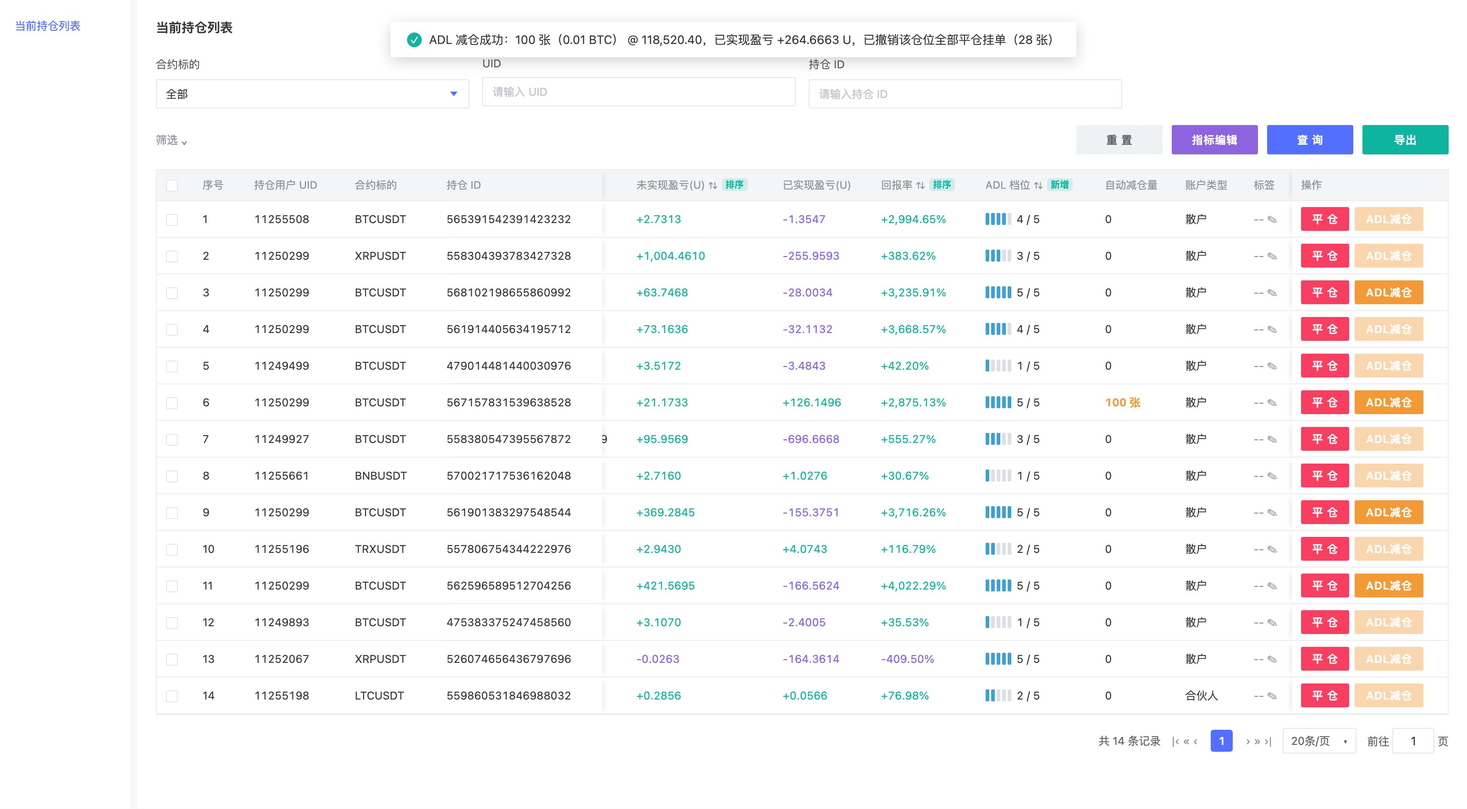
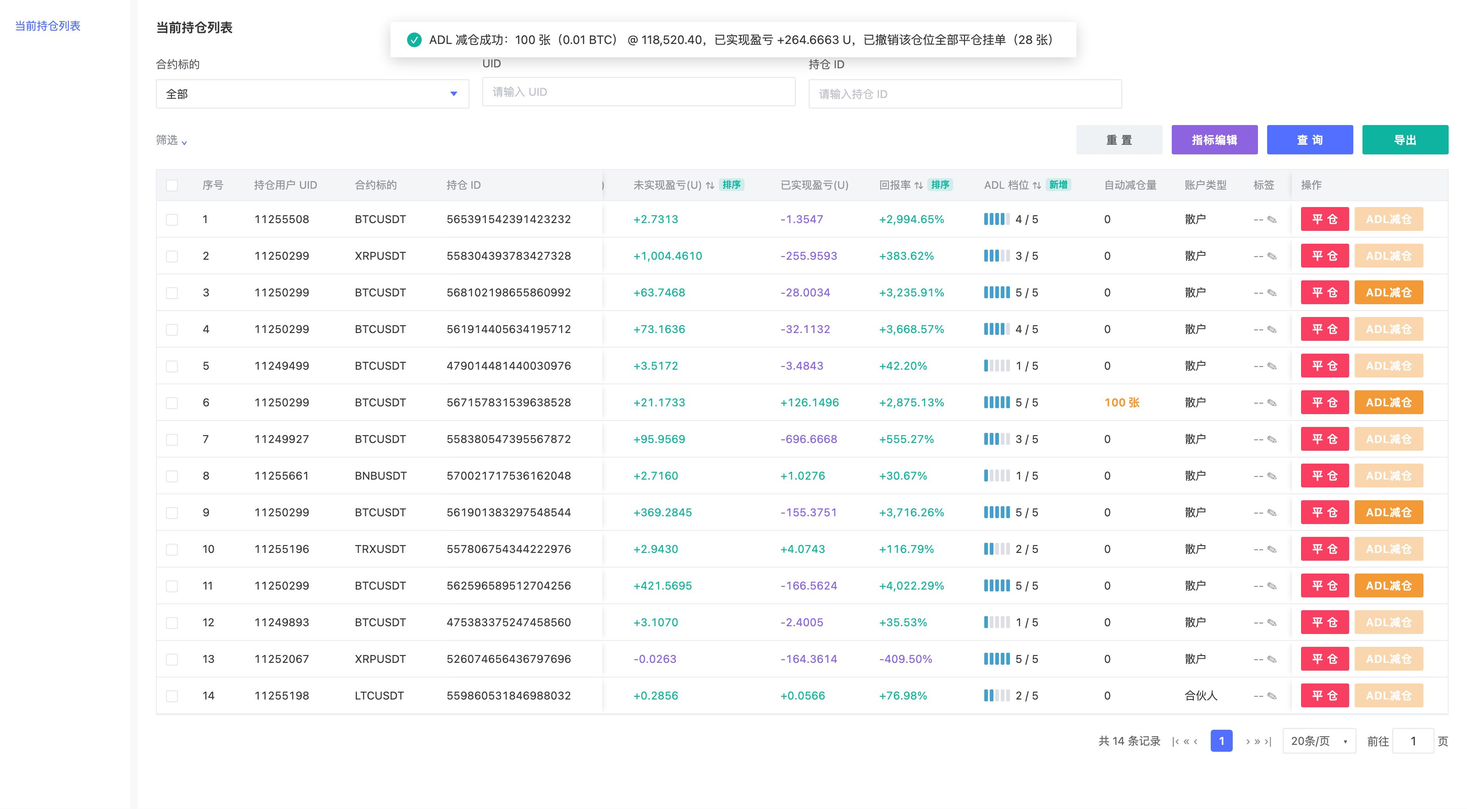
change: 原型数值改按《账户字段公式》计算(仓位价值/保证金/收益率/强平价/破产价/逐仓保证金转出/保证金率);PRD V2.4 新增计算口径章节

diff --git a/中台ADL减仓_PRD_V1.0.html b/中台ADL减仓_PRD_V1.0.html
@@ -74,7 +74,7 @@
 
 <div class="cover">
   <h1>中台 ADL 减仓 PRD</h1>
-  <div class="ver">版本 V2.3 · 2026-10-12 · 修订人 Rhys</div>
+  <div class="ver">版本 V2.4 · 2026-10-13 · 修订人 Rhys</div>
   <div class="sub">需求类型：0→1 · 规模 L ｜ 配套原型：<a href="https://forclaudecode.vercel.app/1009-中台ADL减仓.html">1009-中台ADL减仓.html</a> ｜ 规则来源：规则台账_ADL减仓 v1.0（R01–R19）</div>
 </div>
 
@@ -187,14 +187,35 @@ stateDiagram-v2
   <tr><td>平台账户</td><td>承接 ADL 所产生盈亏的平台自有账户。</td></tr>
 </table>
 
-<h3>2.4 重要信息 Checklist</h3>
+<h3>2.4 计算口径（沿用《账户字段公式》）</h3>
+<p>本需求不新增计算口径，全部沿用现有《账户字段公式》，ADL 视同一次按标记价格成交、免手续费的平仓。</p>
+<table>
+  <tr><th>字段</th><th>公式</th><th>使用位置</th></tr>
+  <tr><td>单个仓位未实现盈亏</td><td>仓位方向 ×（标记价格 − 开仓均价）× 面值 × 张数（多 +1 / 空 −1）</td><td>列表、弹窗、用户端持仓</td></tr>
+  <tr><td>平仓盈亏（本次减仓预估盈亏）</td><td>仓位方向 ×（平仓均价 − 开仓均价）× 面值 × |张数|；ADL 平仓均价 = 执行时标记价格；手续费 0</td><td>弹窗「本次减仓预估盈亏」、历史委托 / 成交</td></tr>
+  <tr><td>已实现盈亏</td><td>成交差价 × 数量 − 手续费 + 资金费用（有正负号）</td><td>列表、弹窗「减仓后预估总已实现盈亏」= 当前已实现盈亏 + 本次减仓预估盈亏</td></tr>
+  <tr><td>仓位价值</td><td>开仓价值 = 面值 × 张数 × 开仓均价（中台列表「仓位价值」）；当前仓位价值 = 面值 × 张数 × 标记价格（弹窗「仓位价值」「剩余持仓价值」）</td><td>列表、弹窗</td></tr>
+  <tr><td>仓位本金 / 仓位保证金</td><td>全仓 = 张数 × 面值 × 开仓均价 / 杠杆；逐仓 = 逐仓保证金（逐仓余额）</td><td>列表「仓位保证金」、收益率分母</td></tr>
+  <tr><td>收益率</td><td>持仓收益率 = 未实现盈亏 / 仓位本金；平仓收益率（历史页）= 仓位已实现盈亏 / 仓位本金</td><td>列表「回报率」、用户端持仓、历史仓位</td></tr>
+  <tr><td>减仓时逐仓保证金转出</td><td>转出 = min（A，B，减仓前仓位保证金）<br>A = max【仓位保证金 × 减仓仓位价值 / 减仓前仓位价值 + 方向 × 减仓张数 × 面值 ×（平仓均价 − 开仓均价），0】<br>B = max【减仓前仓位保证金 + 方向 × 剩余张数 × 面值 ×（标记价格 − 开仓均价）− 剩余张数 × 面值 × 标记价格 / 杠杆，0】</td><td>逐仓 ADL 执行后的保证金与资金去向</td></tr>
+  <tr><td>预估强平价</td><td>逐仓 =【逐仓余额 /（面值 × |张数|）− 方向 × 持仓均价】/（维持保证金率 + 爆仓手续费率 − 方向）<br>全仓（多仓位）=【（钱包余额 − Σ逐仓余额 + 其他仓位未实现盈亏）/（面值 × |张数|）− 方向 × 持仓均价】/（维持保证金率 + 爆仓手续费率 − 方向）<br>破产价格：同上，维持保证金率取 0；价格不存在时显示「--」</td><td>列表「强平价格」「破产价格」、用户端持仓</td></tr>
+  <tr><td>保证金率（逐仓）</td><td>（逐仓余额 + 未实现盈亏）/（面值 × |张数| × 标记价格 ×（维持保证金率 + 爆仓手续费率））</td><td>用户端持仓</td></tr>
+</table>
+<p><strong>由公式得出的两条结论</strong>：</p>
+<ul>
+  <li><strong>全仓</strong>：ADL 后钱包余额增加本次已实现盈亏，被减仓位的未实现盈亏同额减少，二者抵消，<strong>同账户其他仓位的预估强平价不变</strong>；被减仓位因张数减少，强平价远离标记价格。</li>
+  <li><strong>逐仓</strong>：按「减仓时逐仓保证金」规则转出，B 项会把浮盈超出部分一并转出，使剩余仓位权益 = 剩余初始保证金。例：10x 逐仓 0.0108 BTC 被 ADL 0.01 BTC，逐仓保证金 89.11 → 2.34 U，预估强平价 74,678 → 80,039，收益率 71.79% → 202.83%。剩余仓位的强平价会<strong>靠近</strong>标记价格（与用户手动部分平仓的结果一致）。</li>
+</ul>
+<p>维持保证金率、爆仓手续费率取各合约现有配置（原型示例值：0.5% / 0.06%）。</p>
+
+<h3>2.5 重要信息 Checklist</h3>
 <table>
   <tr><th>#</th><th>规则</th><th>台账</th></tr>
   <tr><td>1</td><td>可减条件：ADL 指示灯亮满 5 格 <strong>且</strong> 未实现盈亏 &gt; 0，两个条件同时满足</td><td>R13</td></tr>
   <tr><td>2</td><td>成交价：执行时的实时标记价格（不是运营打开弹窗时的价格）</td><td>R04</td></tr>
   <tr><td>3</td><td>被减部分不产生对手仓位，系统直接结算平仓，盈亏由平台账户承接</td><td>R03</td></tr>
   <tr><td>4</td><td>被减仓用户不收手续费</td><td>R12</td></tr>
-  <tr><td>5</td><td>释放的保证金和已实现盈亏立即可用，回到交易账户</td><td>R16</td></tr>
+  <tr><td>5</td><td>已实现盈亏立即计入交易账户钱包余额；逐仓按「减仓时逐仓保证金」规则转出的保证金立即回到全仓可用</td><td>R16 / R22</td></tr>
   <tr><td>6</td><td>执行后撤销该仓位全部平仓类挂单</td><td>R14</td></tr>
   <tr><td>7</td><td>数量上限 = 执行时的持仓量；超出报错、不执行；同一仓位可多次减仓</td><td>R13 / R17</td></tr>
   <tr><td>8</td><td>数量支持张 / 币 / USDT 切换与小数；张、币的小数位数沿用各合约现有数量精度配置，USDT 按当前标记价折算为张数后执行</td><td>R07 / R18</td></tr>
@@ -204,7 +225,7 @@ stateDiagram-v2
   <tr><td>12</td><td>用户端 ADL 数量统一用币单位显示（如 0.01 BTC）</td><td>R19</td></tr>
 </table>
 
-<h3>2.5 上线节奏</h3>
+<h3>2.6 上线节奏</h3>
 <p>一期上线本文全部范围（中台 + App + Web 同步）。邮件通知（P05）视上线后客服咨询量再评估。</p>
 
 <!-- ============ 三 ============ -->
@@ -309,7 +330,7 @@ flowchart LR
 <p><strong>App · 合约页持仓区</strong>（ADL 前 → 部分 ADL 后 → 全部 ADL 后；虚线框为变化项，原型标注，非实际 UI）＋ <strong>App · 交易记录</strong>（部分 ADL 后：历史委托 / 历史仓位 / 交易历史 / 资金流水）</p><div class="phones"><figure class="fig"><img src="中台ADL减仓_PRD_assets/11_app_before.jpg" alt="图 7　ADL 前" loading="lazy"><figcaption>图 7　ADL 前</figcaption></figure><figure class="fig"><img src="中台ADL减仓_PRD_assets/12_app_partial.jpg" alt="图 8　部分 ADL 后" loading="lazy"><figcaption>图 8　部分 ADL 后</figcaption></figure><figure class="fig"><img src="中台ADL减仓_PRD_assets/13_app_full.jpg" alt="图 9　全部 ADL 后" loading="lazy"><figcaption>图 9　全部 ADL 后</figcaption></figure><figure class="fig"><img src="中台ADL减仓_PRD_assets/14_app_partial_hist.jpg" alt="图 10　交易记录 · 历史委托" loading="lazy"><figcaption>图 10　交易记录 · 历史委托</figcaption></figure><figure class="fig"><img src="中台ADL减仓_PRD_assets/15_app_partial_pos.jpg" alt="图 10-1　交易记录 · 历史仓位（「ADL」标签）" loading="lazy"><figcaption>图 10-1　交易记录 · 历史仓位（「ADL」标签）</figcaption></figure><figure class="fig"><img src="中台ADL减仓_PRD_assets/16_app_partial_fill.jpg" alt="图 10-2　交易记录 · 交易历史" loading="lazy"><figcaption>图 10-2　交易记录 · 交易历史</figcaption></figure><figure class="fig"><img src="中台ADL减仓_PRD_assets/17_app_flow.jpg" alt="图 10-3　交易记录 · 资金流水（不改动）" loading="lazy"><figcaption>图 10-3　交易记录 · 资金流水（不改动）</figcaption></figure></div><p><strong>Web · 合约页仓位区</strong>（页签：当前持仓 / 当前委托 / 历史仓位 / 历史委托〔限价&amp;市价 · 止盈止损 · 计划委托〕/ 资金流水 / 历史成交）</p><figure class="fig"><img src="中台ADL减仓_PRD_assets/07_web_before.jpg" alt="图 11　ADL 前 · 当前持仓（止盈 95,000）" loading="lazy"><figcaption>图 11　ADL 前 · 当前持仓（止盈 95,000）</figcaption></figure><figure class="fig"><img src="中台ADL减仓_PRD_assets/08_web_partial.jpg" alt="图 12　部分 ADL 后 · 当前持仓：数量变为 8 张，止盈被撤，无任何 ADL 标记" loading="lazy"><figcaption>图 12　部分 ADL 后 · 当前持仓：数量变为 8 张，止盈被撤，无任何 ADL 标记</figcaption></figure><figure class="fig"><img src="中台ADL减仓_PRD_assets/18_web_partial_phist.jpg" alt="图 13　部分 ADL 后 · 历史仓位：「ADL」标签，平仓时间为 ADL 执行时间" loading="lazy"><figcaption>图 13　部分 ADL 后 · 历史仓位：「ADL」标签，平仓时间为 ADL 执行时间</figcaption></figure><figure class="fig"><img src="中台ADL减仓_PRD_assets/09_web_partial_hist.jpg" alt="图 14　部分 ADL 后 · 历史委托 · 限价&市价：订单类型「ADL」" loading="lazy"><figcaption>图 14　部分 ADL 后 · 历史委托 · 限价&市价：订单类型「ADL」</figcaption></figure><figure class="fig"><img src="中台ADL减仓_PRD_assets/19_web_partial_tpsl.jpg" alt="图 15　部分 ADL 后 · 历史委托 · 止盈止损：订单状态「因 ADL 撤销」" loading="lazy"><figcaption>图 15　部分 ADL 后 · 历史委托 · 止盈止损：订单状态「因 ADL 撤销」</figcaption></figure><figure class="fig"><img src="中台ADL减仓_PRD_assets/20_web_partial_fill.jpg" alt="图 16　部分 ADL 后 · 历史成交：「ADL」标签，手续费 0" loading="lazy"><figcaption>图 16　部分 ADL 后 · 历史成交：「ADL」标签，手续费 0</figcaption></figure><figure class="fig"><img src="中台ADL减仓_PRD_assets/10_web_full_phist.jpg" alt="图 17　全部 ADL 后 · 历史仓位：「ADL」标签，已平仓量 = 持仓数量" loading="lazy"><figcaption>图 17　全部 ADL 后 · 历史仓位：「ADL」标签，已平仓量 = 持仓数量</figcaption></figure><p>App 与 Web 规则一致，页面名称不同：App「交易记录」页的页签为 历史委托 / 历史仓位 / 资金流水 / 交易历史，Web 为 历史仓位 / 历史委托（限价&amp;市价 · 止盈止损 · 计划委托）/ 资金流水 / 历史成交。以下以一笔 0.0108 BTC 的多仓被减 0.01 BTC 为例。ADL 记录中的数量统一用币单位（R19）；同页其他记录保持各端现有单位（App 现有为 USDT）。</p>
 <table>
   <tr><th>位置</th><th>部分 ADL 后</th><th>全部 ADL 后</th></tr>
-  <tr><td>当前持仓</td><td>仓位仍在，数量变为 0.0008 BTC。未实现盈亏、保证金按剩余部分显示；开仓均价、收益率不变。<strong>不加任何 ADL 标记</strong>。指示灯按现有逻辑重新计算。</td><td>仓位消失；无其他仓位时显示「暂无持仓」。</td></tr>
+  <tr><td>当前持仓</td><td>仓位仍在，数量变为 0.0008 BTC。开仓均价不变；未实现盈亏按剩余张数计算；逐仓保证金按转出规则变为 2.34 U，收益率、预估强平价、保证金率随之重算（见 2.4）。<strong>不加任何 ADL 标记</strong>。指示灯按现有逻辑重新计算。</td><td>仓位消失；无其他仓位时显示「暂无持仓」。</td></tr>
   <tr><td>当前委托</td><td>该仓位的平仓类挂单全部消失，委托数相应减少。</td><td>同左。</td></tr>
   <tr><td>历史委托</td><td colspan="2"><strong>App</strong>：新增一张卡片，标题 BTC_USDT，状态「已成交」；标签「卖出（平多）/ 买入（平空）· 逐仓 / 全仓 · 杠杆 · ADL」；「已成交/总数量(BTC)」如 0.01/0.01，进度条满；委托价格「--」；委托时间为执行时间。被撤的平仓挂单状态显示「已撤销 · 因 ADL」。<br><strong>Web</strong>：「限价&amp;市价」子页签新增一行：合约名称「BTC 平多 / 平空」，订单类型「ADL」标签，成交数量/委托数量如「0.01 BTC(100%) / 0.01 BTC」，成交均价为执行时标记价格，触发条件、委托价格「--」，平仓盈亏为本次已实现盈亏，手续费 0，订单状态「全部成交」。被撤的止盈止损单在「止盈止损」子页签中，订单状态显示「因 ADL 撤销」（与现有「用户撤销」并列）。「计划委托」不改动。</td></tr>
   <tr><td>交易历史（App）/ 历史成交（Web）</td><td colspan="2"><strong>App</strong>：卡片标题 BTCUSDT 旁加「ADL」标签；交易品种、成交数量（如 0.01 BTC）、手续费 0、成交价格（执行时标记价格）、时间、成交ID。<br><strong>Web</strong>：交易品种 BTCUSDT 旁加「ADL」标签；成交价格为执行时标记价格；成交数量如 0.01 BTC；手续费 0；时间、成交 ID。</td></tr>
@@ -340,8 +361,8 @@ flowchart LR
   <tr><td>16</td><td>同一仓位多次 ADL</td><td>允许；每次生成独立的委托和成交记录，「自动减仓量」累计</td><td>R13</td></tr>
   <tr><td>17</td><td>同一仓位既有 ADL 又有用户自己的平仓</td><td>历史仓位仍为一条聚合记录（数量、均价、盈亏合并计算）；只要该仓位发生过 ADL 就显示「ADL」标签</td><td><span class="tag-td">⚠ P18</span></td></tr>
   <tr><td>18</td><td>双向持仓，同一合约同时有多仓和空仓</td><td>按持仓 ID 分别判断、分别操作，互不影响</td><td>R01</td></tr>
-  <tr><td>19</td><td>逐仓仓位被部分 ADL</td><td>保证金按比例释放，连同已实现盈亏立即回到交易账户可用；剩余仓位的强平价基本不变</td><td>R16</td></tr>
-  <tr><td>20</td><td>全仓仓位被部分 ADL</td><td>释放的保证金和已实现盈亏立即可用；对同账户其他仓位强平价的影响见 P07（推导为只会更安全）</td><td>R16 · <span class="tag-td">⚠ P07</span></td></tr>
+  <tr><td>19</td><td>逐仓仓位被部分 ADL</td><td>按「减仓时逐仓保证金」规则转出 min（A，B，减仓前保证金），已实现盈亏计入钱包余额；剩余仓位保证金可能大幅减少、强平价靠近标记价格（见 2.4 示例）</td><td>R16 / R22</td></tr>
+  <tr><td>20</td><td>全仓仓位被部分 ADL</td><td>已实现盈亏计入钱包余额、立即可用；同账户其他仓位预估强平价不变，被减仓位强平价远离标记价格</td><td>R16 / R22</td></tr>
   <tr><td>21</td><td>标记价格在打开弹窗到执行之间变化</td><td>以执行那一刻的标记价格成交；预览值仅供参考</td><td>R04</td></tr>
   <tr><td>22</td><td>被全部 ADL 的用户想立即重新开仓</td><td>不做任何限制，沿用现有开仓逻辑</td><td>—</td></tr>
   <tr><td>23</td><td>切换单位时输入框为空或数值非法</td><td>只切换单位，不换算</td><td>R07</td></tr>
@@ -422,7 +443,6 @@ flowchart LR
 <table>
   <tr><th>编号</th><th>事项</th><th>推荐</th><th>影响章节</th></tr>
   <tr><td>P05</td><td>是否发邮件 / 短信 / App 推送（站内信已确定不发）</td><td>暂不发，上线后看客服咨询量再评估</td><td>1.3、3.3.5</td></tr>
-  <tr><td>P07</td><td>全仓 ADL 对同账户其他仓位强平价的影响</td><td>推导为只会更安全，需研发确认全仓权益是否按标记价计算未实现盈亏</td><td>3.4 #20</td></tr>
   <tr><td>P14</td><td>执行时灯数不足 5 格或未实现盈亏 ≤ 0，是继续执行还是报错</td><td>报错拒绝</td><td>3.4 #12、5.2</td></tr>
   <tr><td>P15</td><td>仓位强平中、合约暂停交易 / 结算 / 下架时能否执行</td><td>拒绝执行</td><td>3.4 #13、5.2</td></tr>
   <tr><td>P16</td><td>哪些中台角色能看到和使用「ADL减仓」</td><td>与现有「平仓」按钮权限一致</td><td>3.3.1</td></tr>
@@ -450,6 +470,7 @@ flowchart LR
   <tr><td>V2.1</td><td>2026-10-12</td><td>初稿（评审前）</td><td>减仓弹窗重新整理：上方固定为「当前仓位（操作前）」；执行预览分「本次减仓」（成交价、数量、价值、本次减仓预估盈亏、手续费）与「减仓后预估」（剩余持仓、剩余持仓价值、减仓后未实现盈亏、减仓后预估总已实现盈亏，均以「当前 → 减仓后」展示）；图 2、图 4 重截</td><td>业务方反馈：弹窗信息有点乱，希望前后对比更直观</td></tr>
   <tr><td>V2.2</td><td>2026-10-12</td><td>初稿（评审前）</td><td>历史仓位改为沿用现有按仓位聚合的展示方式（部分平仓也展示、平仓时间为最近一次），ADL 统一显示「ADL」标签，取消「ADL 部分减仓 / 全部平仓」区分；P18 改为标签规则；图 10-1、13、17 重截</td><td>PM 提供现有手动减仓的历史仓位截图</td></tr>
   <tr><td>V2.3</td><td>2026-10-12</td><td>初稿（评审前）</td><td>减仓弹窗「当前仓位（操作前）」新增「仓位价值」；图 2、图 4 重截</td><td>PM 反馈</td></tr>
+  <tr><td>V2.4</td><td>2026-10-13</td><td>初稿（评审前）</td><td>新增 2.4「计算口径」，全部沿用《账户字段公式》；原型数值改按公式计算（仓位价值、仓位保证金、收益率、强平价、破产价、逐仓保证金转出、保证金率）；关闭 P07（全仓其他仓位强平价不变）；补充逐仓 ADL 后强平价靠近标记价格的结论；图重截</td><td>PM 提供《账户字段公式》</td></tr>
 </table>
 
 </div></div>

diff --git a/1009-中台ADL减仓.html b/1009-中台ADL减仓.html
@@ -572,7 +572,7 @@ let rows=[
 ];
 const LIGHTS=[4,3,5,4,1,5,3,1,5,2,5,1,5,2]; // 第 13 行为「亏损但亮 5 格」示例 // 模拟现有 ADL 指示灯格数
 const ltHtml=n=>`<span class="adl-lt">${[1,2,3,4,5].map(i=>`<b class="${i<=n?'on':''}"></b>`).join('')}</span>${n} / 5`;
-rows.forEach((r,i)=>{r.light=LIGHTS[i];r.oid='查看详情';r.upd='2026-10-09 08:00:00';r.orders=[{oid:String(BigInt(r.pid)+7n),dir:r.side==='L'?'买入开多':'卖出开空',type:'开仓',qty:r.qty,price:r.entry,avg:r.entry,op:'--',time:r.open}]});
+rows.forEach((r,i)=>{r.light=LIGHTS[i];if(r.mm==='逐仓')r.iso=r.qty*SIZE[r.sym]*r.entry/r.lev;r.oid='查看详情';r.upd='2026-10-09 08:00:00';r.orders=[{oid:String(BigInt(r.pid)+7n),dir:r.side==='L'?'买入开多':'卖出开空',type:'开仓',qty:r.qty,price:r.entry,avg:r.entry,op:'--',time:r.open}]});
 
 let sortK=null,sortDir=-1,view=rows.slice(),curRow=null;
 
@@ -588,12 +588,38 @@ const qt=(r,z,u)=>qn(r,z,u)+' '+ul(r,u);
 const qb=(r,z)=>`${qt(r,z,'张')}（${qt(r,z,'币')}）`;
 const sgn=(n,d=4)=>(n>0?'+':'')+fmt(n,d);
 const cls=n=>n>0?'up':n<0?'down':'';
+/* ===== 计算口径：取自《账户字段公式》 =====
+   单个仓位未实现盈亏 = 仓位方向 ×（标记价格 − 开仓均价）× 面值 × 张数
+   仓位开仓价值 = 面值 × 张数 × 开仓均价；当前仓位价值 = 面值 × 张数 × 标记价格
+   仓位本金：全仓 = 张数 × 面值 × 开仓均价 / 杠杆；逐仓 = 逐仓保证金（逐仓余额）
+   持仓收益率 = 未实现盈亏 / 仓位本金
+   预估强平价：逐仓 =【逐仓余额 /（面值×|张数|）− 方向×持仓均价】/（维持保证金率 + 爆仓手续费率 − 方向）
+             全仓 =【（钱包余额 − Σ逐仓余额 + 其他全仓仓位未实现盈亏）/（面值×|张数|）− 方向×持仓均价】/（维持保证金率 + 爆仓手续费率 − 方向）
+   破产价格：同强平价公式，维持保证金率取 0；价格不存在（≤0）时显示 "--"            */
+const MMR=0.005,LFEE=0.0006; // ⚠ 维持保证金率、爆仓手续费率为原型示例值，实际取各合约风险档位 / 费率配置
+const CROSS_BAL={'11255508':50,'11250299':3000,'11249499':100,'11249927':2000,'11255661':10,'11255196':5,'11252067':30,'11255198':3,'11249893':20}; // 全仓余额 = 钱包余额 − Σ逐仓余额（模拟）
+const dirOf=r=>r.side==='L'?1:-1;
+const upnlOf=r=>dirOf(r)*(MARK[r.sym]-r.entry)*r.qty*SIZE[r.sym];
+const imOf=r=>r.qty*SIZE[r.sym]*r.entry/r.lev;
+function liqOf(r,mmr){
+  const q=r.qty*SIZE[r.sym],dir=dirOf(r); if(!q)return null;
+  const bal=r.mm==='逐仓'?r.iso:CROSS_BAL[r.uid]+rows.filter(x=>x!==r&&x.uid===r.uid&&x.mm==='全仓').reduce((a,x)=>a+upnlOf(x),0);
+  const p=(bal/q-dir*r.entry)/(mmr+LFEE-dir); return p>0?p:null;
+}
+/* 减仓时逐仓保证金转出 = min（A，B，减仓前仓位保证金）
+   A = max【仓位保证金 × 减仓仓位价值 / 减仓前仓位价值 + 方向 × 减仓张数 × 面值 ×（平仓均价 − 开仓均价），0】
+   B = max【减仓前仓位保证金 + 方向 × 剩余张数 × 面值 ×（标记价格 − 开仓均价）− 剩余张数 × 面值 × 标记价格 / 杠杆，0】 */
+function isoRelease(r,n,px){
+  const s=SIZE[r.sym],dir=dirOf(r),left=r.qty-n;
+  const a=Math.max(r.iso*n/r.qty+dir*n*s*(px-r.entry),0);
+  const b=Math.max(r.iso+dir*left*s*(MARK[r.sym]-r.entry)-left*s*MARK[r.sym]/r.lev,0);
+  return Math.min(a,b,r.iso);
+}
 function calc(r){
-  const s=SIZE[r.sym],m=MARK[r.sym],dir=r.side==='L'?1:-1;
-  const value=r.qty*s*m, margin=r.entry*r.qty*s/r.lev, upnl=dir*(m-r.entry)*r.qty*s;
-  const bk=r.side==='L'?r.entry*(1-1/r.lev):r.entry*(1+1/r.lev);
-  const liq=r.side==='L'?Math.max(0,r.entry*(1-1/r.lev+0.005)):r.entry*(1+1/r.lev-0.005);
-  return {value,margin,upnl,roe:margin?upnl/margin:0,bk,liq,mark:m,light:r.light};
+  const s=SIZE[r.sym],m=MARK[r.sym];
+  const value=r.qty*s*r.entry, curValue=r.qty*s*m, upnl=upnlOf(r);
+  const margin=r.mm==='逐仓'?r.iso:imOf(r);
+  return {value,curValue,margin,upnl,roe:margin?upnl/margin:0,bk:liqOf(r,0),liq:liqOf(r,MMR),mark:m,light:r.light};
 }
 
 function render(){
@@ -619,9 +645,9 @@ function render(){
       <td class="num">${fmt(c.value)}</td>
       <td class="num">${r.lev}</td>
       <td class="num">${fmt(c.margin)}</td>
-      <td class="num">${fmt(c.liq,pd)}</td>
+      <td class="num">${c.liq?fmt(c.liq,pd):'--'}</td>
       <td class="num">${fmt(c.mark,pd)}</td>
-      <td class="num">${fmt(c.bk,pd)}</td>
+      <td class="num">${c.bk?fmt(c.bk,pd):'--'}</td>
       <td class="num ${cls(c.upnl)}">${sgn(c.upnl)}</td>
       <td class="num ${cls(r.rpnl)}">${sgn(r.rpnl)}</td>
       <td class="num ${cls(c.roe)}">${sgn(c.roe*100,2)}%</td>
@@ -674,7 +700,7 @@ function fillInfo(){
   const qtyCell=(q,a)=>`<span class="num">${qn(r,q,mUnit)} / ${qn(r,a,mUnit)} ${ul(r,mUnit)}</span>`;
   $('adlInfo').innerHTML=[
     ['UID',r.uid],['合约',r.sym],['方向',`<span class="${r.side==='L'?'side-l':'side-s'}">${r.side==='L'?'多仓':'空仓'}</span> · ${r.mm} ${r.lev}x`],['持仓 ID',`<span class="num" style="font-size:11.5px">${r.pid}</span>`],
-    ['开仓均价',`<span class="num">${fmt(r.entry,pd)}</span>`],['标记价格',`<span class="num">${fmt(c.mark,pd)}</span>`],['持仓量 / 可平量',ch(qtyCell(r.qty,r.avail),left===0?`<span class="num">0 / 0 ${ul(r,mUnit)}</span>`:qtyCell(left,left))],['仓位价值',`<span class="num">${fmt(c.value)} U</span>`],['累计已 ADL',`<span class="num">${qt(r,adl2,mUnit)}</span>`],
+    ['开仓均价',`<span class="num">${fmt(r.entry,pd)}</span>`],['标记价格',`<span class="num">${fmt(c.mark,pd)}</span>`],['持仓量 / 可平量',ch(qtyCell(r.qty,r.avail),left===0?`<span class="num">0 / 0 ${ul(r,mUnit)}</span>`:qtyCell(left,left))],['仓位价值',`<span class="num">${fmt(c.curValue)} U</span>`],['累计已 ADL',`<span class="num">${qt(r,adl2,mUnit)}</span>`],
     ['未实现盈亏',ch(`<span class="num ${cls(c.upnl)}">${sgn(c.upnl)} U</span>`,`<span class="num ${cls(up2)}">${sgn(up2)} U</span>`)],['回报率',`<span class="num ${cls(c.roe)}">${sgn(c.roe*100,2)}%</span>`],['已实现盈亏',ch(`<span class="num ${cls(r.rpnl)}">${sgn(r.rpnl)} U</span>`,`<span class="num ${cls(rp2)}">${sgn(rp2)} U</span>`)],['ADL 档位',ltHtml(r.light)],
   ].map(([k,v])=>`<div><div class="k">${k}</div><div class="v">${v}</div></div>`).join('');
   const d=udec(r,mUnit),min=Math.pow(10,-ZDEC)*per(r,mUnit);
@@ -770,6 +796,8 @@ function execute(){
     const c=calc(r),s=SIZE[r.sym],dir=r.side==='L'?1:-1,pnl=dir*(c.mark-r.entry)*n*s;
     const cancelled=rz(r.qty-r.avail);
     r.orders.push({oid:String(BigInt(r.pid)+BigInt(r.orders.length*13+101)),dir:r.side==='L'?'卖出平多':'买入平空',type:'ADL减仓',qty:n,price:c.mark,avg:c.mark,op:OPERATOR,time:'2026-10-09 '+new Date().toTimeString().slice(0,8)});
+    const rel=r.mm==='逐仓'?isoRelease(r,n,c.mark):0; if(r.mm==='逐仓')r.iso-=rel;
+    CROSS_BAL[r.uid]=(CROSS_BAL[r.uid]||0)+pnl+rel; // 钱包余额 += 已实现盈亏；逐仓转出部分回到全仓
     r.qty=rz(r.qty-n);r.avail=r.qty;r.adl=rz(r.adl+n);r.rpnl+=pnl;r.upd='2026-10-09 '+new Date().toTimeString().slice(0,8);
     const full=r.qty<=0;
     if(full){rows=rows.filter(x=>x!==r);view=view.filter(x=>x!==r)}
@@ -799,14 +827,22 @@ function toast(t,type){
 document.addEventListener('keydown',e=>{if(e.key==='Escape'){['cfmMask','adlMask','ordMask'].forEach(hide)}});
 
 /* ---------- 用户端 App + Web ---------- */
-const A={entry:82510.63,mark:88433.72,lev:10,mmr:0.005,cs:0.0001};
+const A={entry:82510.63,mark:88433.72,lev:10,cs:0.0001,q0:0.0108};
+A.im0=A.q0*A.entry/A.lev; // 开仓时逐仓保证金（逐仓余额）
 const AS={before:{z:108,light:5,ord:1},partial:{z:8,light:5,ord:0},full:{z:0,light:0,ord:0}};
 const ADLZ={partial:100,full:108};
 const TIP_U='<span class="tip">自动减仓（ADL）：系统按标记价格减少您的部分或全部仓位，本次减仓不收取手续费，减仓后您可随时重新开仓。<br><span class="u-warn">⚠ 文案 / 客服口径待确认（Q9）</span></span>';
 let aState='before',aHTab='ord',uT='pos',uSub='lm';
 const af=(n,d=2)=>Number(n).toLocaleString('en-US',{minimumFractionDigits:d,maximumFractionDigits:d});
 const bz=z=>+(z*A.cs).toFixed(6);
-function pm(z){const q=bz(z),val=q*A.mark,margin=A.entry*q/A.lev,up=(A.mark-A.entry)*q;return{q,val,margin,up,roe:up/margin*100,liq:A.entry*(1-1/A.lev+A.mmr),mr:(margin+up)/(val*A.mmr)*100}}
+function pm(z){
+  const q=bz(z),val=q*A.mark,up=(A.mark-A.entry)*q;
+  let iso=A.im0;
+  if(q<A.q0&&q>0){const n=A.q0-q,a=Math.max(A.im0*n/A.q0+n*(A.mark-A.entry),0),b=Math.max(A.im0+q*(A.mark-A.entry)-q*A.mark/A.lev,0);iso=A.im0-Math.min(a,b,A.im0)}
+  const liq=q?(iso/q-A.entry)/(MMR+LFEE-1):0;            // 逐仓预估强平价
+  const mr=q?(iso+up)/(q*A.mark*(MMR+LFEE))*100:0;        // 逐仓保证金率 =（逐仓余额 + 未实现盈亏）/（面值×|张数|×标记价×（维持保证金率 + 爆仓手续费率））
+  return{q,val,margin:iso,up,roe:iso?up/iso*100:0,liq,mr};
+}
 function aCard(st){
   const m=pm(st.z),ch=aState==='partial'?' chg-flag':'';
   const lt=[1,2,3,4,5].map(i=>`<b class="${i<=st.light?'on':''}"></b>`).join('');
@@ -833,7 +869,7 @@ function aRender(){
   $('aBody').innerHTML=st.z?aCard(st):`<div class="ph-row"><span class="ph-tog"><i></i>隐藏其它合约</span></div><div class="ph-empty">📄<br><br>暂无持仓</div>`;
   const notes={
    before:`<b>① ADL 前</b>：持有 0.0108 BTC（逐仓 10x），挂 1 张止盈单（触发价 95,000）。App 指示灯<b>亮满 5 格</b>，所以中台可以对它执行 ADL。`,
-   partial:`<b>② 部分 ADL 后</b>（App 中虚线框为变化项）：持仓量 0.0108 → 0.0008 BTC（App 显示 955.08 → 70.75 USDT）；未实现盈亏只剩剩余部分；逐仓保证金按比例释放，释放的保证金和已实现盈亏<b>立即回到交易账户可用</b>；指示灯按现有逻辑重新计算（回报率、杠杆不变，示意仍为 5 格，可再次被减）；止盈单被撤，委托 1 → 0。开仓均价、收益率、强平价、保证金率不变。<b>仓位区不加任何 ADL 标记</b>（R08），<b>不发站内信</b>（R09）；用户只能在历史委托 / 成交记录 / 仓位历史中看到「ADL」标签。`,
+   partial:`<b>② 部分 ADL 后</b>（App 中虚线框为变化项）：持仓量 0.0108 → 0.0008 BTC（App 显示 955.08 → 70.75 USDT）；未实现盈亏只剩剩余部分；逐仓保证金按现有「减仓时逐仓保证金」规则转出（89.11 → 2.33 U，转出部分与已实现盈亏<b>立即回到交易账户可用</b>）；指示灯按现有逻辑重新计算（回报率、杠杆不变，示意仍为 5 格，可再次被减）；止盈单被撤，委托 1 → 0。开仓均价不变；收益率、预估强平价、保证金率按公式随剩余保证金重算（强平价 74,678 → 80,046）。<b>仓位区不加任何 ADL 标记</b>（R08），<b>不发站内信</b>（R09）；用户只能在历史委托 / 成交记录 / 仓位历史中看到「ADL」标签。`,
    full:`<b>③ 全部 ADL 后</b>：仓位从当前持仓消失（Web / App 都显示「暂无持仓」）；止盈单被撤；ADL 记录只出现在历史委托 / 成交记录 / 仓位历史中。`};
   $('aNote').innerHTML=notes[aState];
   aHRender();uRender();
@@ -843,7 +879,7 @@ function aHRender(){
   document.querySelectorAll('#aHTabs span').forEach(s=>s.classList.toggle('on',s.dataset.h===aHTab));
   const CH={ord:['类型','币种','日期'],pos:['币种','交易方向','日期'],flow:['币种','类型','日期'],fill:['币种','日期']};
   $('aChips').innerHTML=CH[aHTab].map(c=>`<span>${c}</span>`).join('');
-  const done=aState!=='before',z=ADLZ[aState]||0,q=bz(z),pnl=(A.mark-A.entry)*q,roe=(A.mark-A.entry)/A.entry*A.lev*100,T='2026-10-09 13:40:12';
+  const done=aState!=='before',z=ADLZ[aState]||0,q=bz(z),pnl=(A.mark-A.entry)*q,roe=pnl/A.im0*100,T='2026-10-09 13:40:12';
   const adlTag=t=>`<span class="adl-b" style="margin-left:2px">${t}</span>`;
   const kv=(k,v,cls='')=>`<div><div class="k">${k}</div><div class="v ${cls}">${v}</div></div>`;
   const prog=(lab,a,b,full)=>`<div class="k"><b>已成交</b>/总数量(${lab})</div><div class="prog"><span class="v">${a}/${b}</span><span class="bar2"><i style="width:${full?100:0}%"></i></span></div>`;
@@ -865,7 +901,7 @@ function aHRender(){
   $('aHBody').innerHTML=H[aHTab];
 }
 function uRender(){
-  const st=AS[aState],done=aState!=='before',z=ADLZ[aState]||0,q=bz(z),pnl=(A.mark-A.entry)*q,roe=(A.mark-A.entry)/A.entry*A.lev*100,m=pm(st.z),T='2026-10-09 13:40:12',full=aState==='full';
+  const st=AS[aState],done=aState!=='before',z=ADLZ[aState]||0,q=bz(z),pnl=(A.mark-A.entry)*q,roe=pnl/A.im0*100,m=pm(st.z),T='2026-10-09 13:40:12',full=aState==='full';
   const NM={pos:'当前持仓',open:'当前委托',phist:'历史仓位',hist:'历史委托',flow:'资金流水',fill:'历史成交'};
   document.querySelectorAll('#uTabs button').forEach(b=>{const t=b.dataset.t;b.classList.toggle('on',t===uT);b.innerHTML=NM[t]+(t==='pos'?`<span class="bdg">${st.z?1:0}</span>`:t==='open'?`<span class="bdg">${st.ord}</span>`:'')});
   const chip=t=>`<span class="adl-chip">${t} ⓘ${TIP_U}</span>`;
